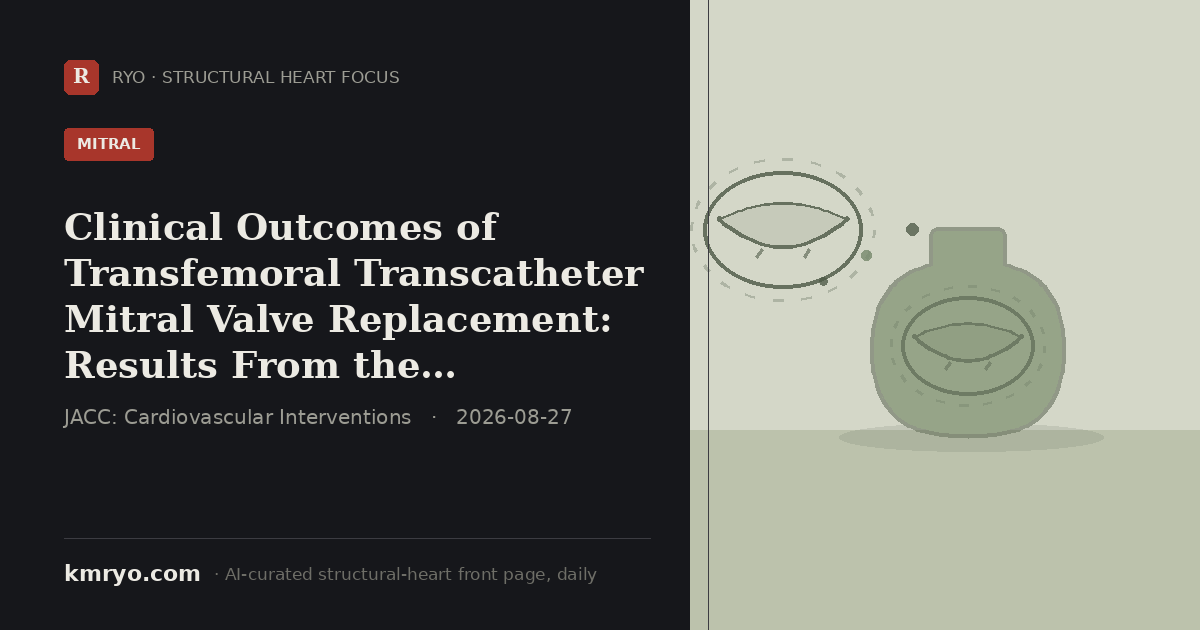
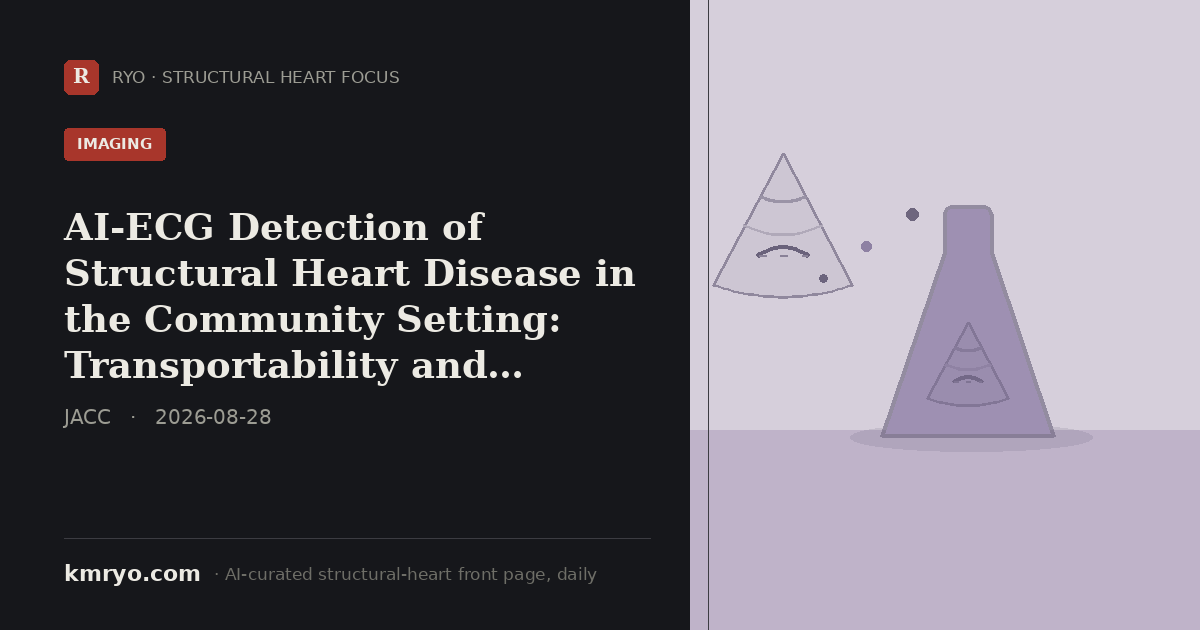
pulse: 2026-08-28 daily update

diff --git a/index.html b/index.html
@@ -6,8 +6,8 @@
 <title>Structural Heart Focus — Daily | Dr. Mi Chen · 千觅量子 RYO</title>
 <meta name="description" content="Structural Heart Focus — the day's most important structural-heart reading (top journals, major meetings and the field's conversation), curated daily by an AI agent from inside the Zurich hybrid room. By Dr. Mi Chen · 千觅量子 RYO.">
 <!-- Social share card. Regenerated daily by the pulse agent (pulse/make_share_card.py); og:title/description updated to the day's top story so LinkedIn/WeChat/X show today's headline, not a static portrait. -->
-<meta property="og:title" content="Clinical Outcomes of Transfemoral Transcatheter Mitral Valve Replacement: Results From the CHOICE-MI Registry">
-<meta property="og:description" content="CHOICE-MI registry: transfemoral TMVR achieves 91.1% technical success across 124 patients and 9 devices, the largest real-world dataset yet for this approach.">
+<meta property="og:title" content="AI-ECG Detection of Structural Heart Disease in the Community Setting: Transportability and Spectrum Effects in the PREVUE-VALVE Study">
+<meta property="og:description" content="PREVUE-VALVE study: the EchoNext AI-ECG model's accuracy for detecting structural heart disease drops from 83% AUC in hospital cohorts to 71% in a community-based screening population.">
 <meta property="og:image" content="https://www.kmryo.com/pulse/img/share/card.png">
 <meta property="og:image:width" content="1200">
 <meta property="og:image:height" content="630">
@@ -16,8 +16,8 @@
 <meta property="og:type" content="website">
 <meta property="og:site_name" content="kmryo.com · Structural Heart Focus">
 <meta name="twitter:card" content="summary_large_image">
-<meta name="twitter:title" content="Clinical Outcomes of Transfemoral Transcatheter Mitral Valve Replacement: Results From the CHOICE-MI Registry">
-<meta name="twitter:description" content="CHOICE-MI registry: transfemoral TMVR achieves 91.1% technical success across 124 patients and 9 devices, the largest real-world dataset yet for this approach.">
+<meta name="twitter:title" content="AI-ECG Detection of Structural Heart Disease in the Community Setting: Transportability and Spectrum Effects in the PREVUE-VALVE Study">
+<meta name="twitter:description" content="PREVUE-VALVE study: the EchoNext AI-ECG model's accuracy for detecting structural heart disease drops from 83% AUC in hospital cohorts to 71% in a community-based screening population.">
 <meta name="twitter:image" content="https://www.kmryo.com/pulse/img/share/card.png">
[1 lines of base64/hex data omitted]
 <link rel="preconnect" href="https://fonts.googleapis.com">
